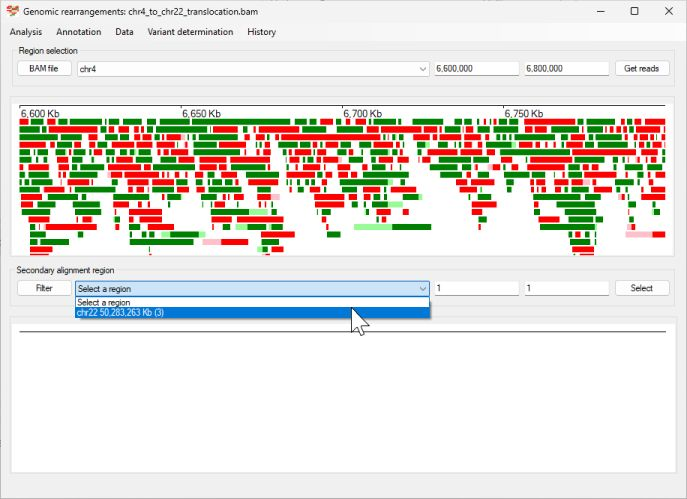
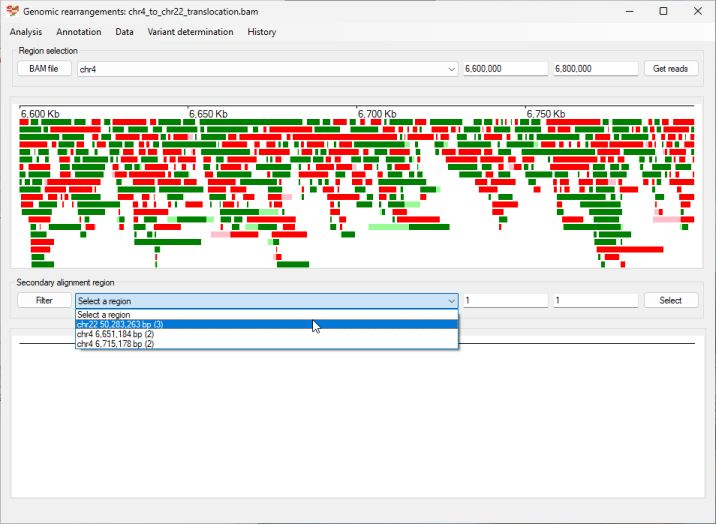
Creating the user guide

diff --git a/AgileStructure/Form1.cs b/AgileStructure/Form1.cs
@@ -1147,7 +1147,7 @@ namespace AgileStructure
                 foreach (string k in secondaryAlignments.Keys)
                 {
                     if (secondaryAlignments[k] > 1)
-                    { bins.Add(k + " Kb (" + secondaryAlignments[k].ToString() + ")"); }
+                    { bins.Add(k + " bp (" + secondaryAlignments[k].ToString() + ")"); }
                 }
                 bins.Sort();
                 cboSecondaries.Items.Clear();
@@ -2780,12 +2780,8 @@ namespace AgileStructure
 
         private void btnFilter_Click(object sender, EventArgs e)
         {
-            if (cboSecondaries.Items.Count < 2)
-            {
-                repopulateSecondaryList();
-                btnFilter.PerformClick();
-                return;
-            }
+
+            repopulateSecondaryList();             
 
             FilterHits fh = new FilterHits(referenceSequenceNames, 2);
             if (fh.ShowDialog() == DialogResult.OK)
@@ -2802,7 +2798,7 @@ namespace AgileStructure
                         if ((k.Contains(chromosome) == true || chromosome.StartsWith("Select")) && secondaryAlignments[k] >= count)
                         {
                             if (secondaryAlignments[k] > 1)
-                            { bins.Add(k + " Kb (" + secondaryAlignments[k].ToString() + ")"); }
+                            { bins.Add(k + " bp (" + secondaryAlignments[k].ToString() + ")"); }
                         }
                     }
 
@@ -2818,11 +2814,7 @@ namespace AgileStructure
                     cboSecondaries.Items.Add("Select a region");
                     cboSecondaries.SelectedIndex = 0;
                 }
-            }
-            else
-            {
-                repopulateSecondaryList();
-            }
+            }            
         }
 
         private void repopulateSecondaryList()
@@ -2834,7 +2826,7 @@ namespace AgileStructure
                 foreach (string k in secondaryAlignments.Keys)
                 {
                     if (secondaryAlignments[k] > 1)
-                    { bins.Add(k + " Kb (" + secondaryAlignments[k].ToString() + ")"); }
+                    { bins.Add(k + " bp (" + secondaryAlignments[k].ToString() + ")"); }
                 }
 
                 bins.Sort();
@@ -2944,16 +2936,14 @@ namespace AgileStructure
                 {
                     startPoint.Sort();
                     endPoint.Sort();
-                    if (startPoint.Count % 2 == 0)
-                    {
-                        int middle = startPoint.Count / 2;
-                        int mediumStart = (startPoint[middle - 1] + startPoint[middle]) / 2;
-                        int mediumEnd = (endPoint[middle - 1] + endPoint[middle]) / 2;
 
-                        sb.Append("\nMedian brake points\t" + cboRef.Text + ":" + mediumStart.ToString("N0") + "-" + (mediumStart + 1).ToString("N0") + "ins" + (mediumStart - mediumEnd).ToString("N0") + "bp\n");
-                        if (MessageBox.Show(sb.ToString(), "Insertion", MessageBoxButtons.YesNo, MessageBoxIcon.Question) == DialogResult.Yes)
-                        { SaveToFile(sb.ToString()); }
-                    }
+                    int middle = startPoint.Count / 2;
+                    int mediumStart = (startPoint[middle - 1] + startPoint[middle]) / 2;
+                    int mediumEnd = (endPoint[middle - 1] + endPoint[middle]) / 2;
+
+                    sb.Append("\nMedian brake points\t" + cboRef.Text + ":" + mediumStart.ToString("N0") + "-" + (mediumStart + 1).ToString("N0") + "ins" + (mediumStart - mediumEnd).ToString("N0") + "bp\n");
+                    if (MessageBox.Show(sb.ToString(), "Insertion", MessageBoxButtons.YesNo, MessageBoxIcon.Question) == DialogResult.Yes)
+                    { SaveToFile(sb.ToString()); }
                 }
             }
         }
@@ -2992,17 +2982,14 @@ namespace AgileStructure
                 {
                     startPoint.Sort();
                     endPoint.Sort();
-                    if (startPoint.Count % 2 == 0)
-                    {
-                        int middle = startPoint.Count / 2;
-                        int mediumStart = (startPoint[middle - 1] + startPoint[middle]) / 2;
-                        int mediumEnd = (endPoint[middle - 1] + endPoint[middle]) / 2;
 
-                        sb.Append("\nMedian brakepoints\t" + cboRef.Text + ":" + mediumStart.ToString("N0") + "-" + mediumEnd.ToString("N0") + "del\n");
-                        if (MessageBox.Show(sb.ToString(), "Deletion", MessageBoxButtons.YesNo, MessageBoxIcon.Question) == DialogResult.Yes)
-                        { SaveToFile(sb.ToString()); }
-                    }
+                    int middle = startPoint.Count / 2;
+                    int mediumStart = (startPoint[middle - 1] + startPoint[middle]) / 2;
+                    int mediumEnd = (endPoint[middle - 1] + endPoint[middle]) / 2;
 
+                    sb.Append("\nMedian brakepoints\t" + cboRef.Text + ":" + mediumStart.ToString("N0") + "-" + mediumEnd.ToString("N0") + "del\n\nDo you want to save the data?" );
+                    if (MessageBox.Show(sb.ToString(), "Deletion", MessageBoxButtons.YesNo, MessageBoxIcon.Question) == DialogResult.Yes)
+                    { SaveToFile(sb.ToString()); }
                 }
             }
         }

diff --git a/guide/README.md b/guide/README.md
@@ -14,7 +14,7 @@ while have a index file named:
 
 ### Preferred long read sequence aligners
 
-Long reads that span a break point will appear to consist of two regions of homology, mapping to different locations in the genome. How these chimeric alignments are reported are aligner specific. Some aligners such as minimap2 ([github](https://github.com/lh3/minimap2), [paper](https://academic.oup.com/bioinformatics/article/34/18/3094/4994778)), treat the two regions as different alignments, but will report the secondary alignment as a CIGAR string in the alignments tag section, while those like lra ([github](https://github.com/ChaissonLab/LRA), [paper](https://journals.plos.org/ploscompbiol/article?id=10.1371/journal.pcbi.1009078)), may report a single alignment with an insertion or deletion reported in the alignments CIGAR string.  
+Long reads that span a break point will appear to consist of two regions of homology, mapping to different locations in the genome. How these chimeric alignments are reported are aligner specific. Some aligners such as minimap2 ([github](https://github.com/lh3/minimap2), [paper](https://academic.oup.com/bioinformatics/article/34/18/3094/4994778)), treat the two regions as different alignments, but will report the secondary alignment as a condensed CIGAR string in the alignments tag section, while those like lra ([github](https://github.com/ChaissonLab/LRA), [paper](https://journals.plos.org/ploscompbiol/article?id=10.1371/journal.pcbi.1009078)), report the read as two separate alignments, but not directly reference the other alignment position and CIGAR string. However, for shorter indels both aligns will report them in the CIGAr string (see section @@@)    
 AgileStructure is able to analyse both annotations, but the first method is the most flexible and will allow more complex break points to be processed than those that hard clip the sequence and don't include the location of secondary alignment. Consequently, it is recommended to align data using an aligner like minimap2. 
 
 ### Optional data
@@ -50,28 +50,128 @@ Select the likely chromosome (reference sequence) from the dropdown list boz and
 Figure 3
 
 The position of reads mapping to the region are shown as green (aligned to the forward strand) and red (aligned to the reverse strand) rectangles scaled to the length of the read. Soft clipped sequences are identified as pale green or red extensions to the darker green/red rectangles. The size of the pale rectangles is proportionate to their length and their location only indicates whether they are on the 5' or 3' of the aligned sequence.  
-AgileStructure does not have an upper limit on the size of the region or number of reads it will process and will attempt to read the requested data until the computer runs out of memory. WHile there is no upper limit, you should try to limit the amount of data reads as reading the underlying bam file can be a slow process due to its size.
+It is important to note that in the default view reads are drawn as a solid box spanning the length of the alignment, if a read as a large deletion this will not be shown, however they can be visualised by selecting the ```Analsis``` > ```Look for indels within a read``` option (see section @@@@@@@@@).  
+AgileStructure does not have an upper limit on the size of the region or number of reads it will process and will attempt to read the requested data until the computer runs out of memory. While there is no upper limit, you should try to limit the amount of data reads as reading the underlying bam file can be a slow process due to its size.
 
-### Looking for putative break points in the selected region.
+### Hiding reads without a soft clipped segment
 
-It may be possible to simply identify the the break point  at this point, especially for large homozygous deletions, but in many situation particularly for heterozygous break points they may not standout. Consequently, AgileStructure scans the reads, looking for 250 bp regions in which multiple read alignments prematurely terminate and the remaining soft clipped sequence all maps to the same location. These regions are then recorded and entered in to the lower drop down list box (Figure 4).
+When adding reads to the image, they are stacked so as little space as possible is used, however for alignments with a high read depth, the stacks may be to too tall to fit in the image. Since, only reads that have a soft clipped region are important in break point detection it is possible to hide those with out an unaligned area by selecting the ```Analysis``` > ```Only show reads with secondary alignments ``` option (Figure 4).
 
 ![Figure 4](images/figure4.jpg)
 
 Figure 4
 
-For extended regions and/or alignments with a high read depth, this list may contain a large number of entries. To filter them press the ```Filter``` button to the left of the lower drop down list box. This will open the ```Filter possible break points``` form (Figure 5 a nd b). The upper drop down list box allow the break point to be filtered by the chromosome that the soft clip regions are mapped too (Figure 5a), while the lower number select box will filter the results by the number of reads linked to each putative break point. 
+The filtered image will contain fewer reads, making those at the break point more apparent.
 
-![Figure 5a](images/figure5a.jpg)
+![Figure 5](images/figure5.jpg)
 
-Figure 5a
+Figure 5
 
-![Figure 5b](images/figure5b.jpg)
+### Looking for putative break points in the selected region.
 
-Figure 5b
-
-Pressing the ```Filter``` button will repopulate the drop down list box (Figure 6).
+It may be possible to simply identify the the break point  at this point, especially for large homozygous deletions, but in many situation particularly for heterozygous break points they may not standout. Consequently, AgileStructure scans the reads, looking for 250 bp regions in which multiple read alignments prematurely terminate and the remaining soft clipped sequence all maps to the same location. These regions are then recorded and entered in to the lower drop down list box (Figure 6).
 
 ![Figure 6](images/figure6.jpg)
 
 Figure 6
+
+For extended regions and/or alignments with a high read depth, this list may contain a large number of entries. To filter them press the ```Filter``` button to the left of the lower drop down list box. This will open the ```Filter possible break points``` form (Figure 7a and 7b). The upper drop down list box allows the break points to be filtered by the chromosome that the soft clip regions are mapped too (Figure 7a), while the lower number select box will filter the results by the number of reads linked to each putative break point. 
+
+![Figure 7a](images/figure7a.jpg)
+
+Figure 7a
+
+![Figure 7b](images/figure7b.jpg)
+
+Figure 7b
+
+Pressing the ```Accept``` button will remove all break points that do not match the criteria (Figure 8), while pressing the ```Cancel``` will remove all filtering.
+
+![Figure 8](images/figure8.jpg)
+
+Figure 8
+
+Selecting a break point from this list will cause the reads with soft clipped sequences mapped to the break points flanking regions to be displayed in the lower panel (Figure 9). As before, reads are drawn in green or red for those mapping to the forward or reverse strands, with aligned sequences darker than the unaligned soft clipped sequences. It is important to note that only reads that are present in the upper image shown in the lower image and that sequences that were aligned to the reference sequence in the upper image will be unaligned, soft clipped sequences in the lower image. 
+
+![Figure 9](images/figure9.jpg)
+
+Figure 9
+
+### Viewing read alignment information
+
+Selecting the ```Data``` > ```View read data``` will cause a resizable window to appear that consist solely of a text area. If the mouse cursor is held over a read, its underlying data will be written to the text area. For a sequence to be selected, the cursor has to hover over the read for a little while. This makes it possible to select a read and then quickly move the cursor to the new window and copy the data to paste in a document etc.
+
+
+![Figure 10a](images/figure10a.jpg)
+
+Figure 10a
+
+![Figure 10b](images/figure10b.jpg)
+
+Figure 10b
+
+Since the read, quality score string and CIGAR string can be several thousand characters lond, the text area doesn't word wrap text and so if you want to read the end of a CIGAR string you must use the horizontal scroll bar.   
+As well as the sequence and quality string, this information contains the primary and secondary alignments' location etc as well all the tag added by the aligner.
+
+### Selecting reads linked to a break point
+
+When the upper image contains a large number of reads it may not be possible identify the reads associated with the selected break point, however clicking on a read in either image will cause it to be selected and drawn with a blue boarder. By clicking on all the reads linked to a break point in the lower image will help to identify the break point in the upper image (Figure 11) 
+
+![Figure 11](images/figure11.jpg)
+
+Figure 11
+
+If you click on a selected read it will be deselected, while selecting the ```Data``` > ```Clear selected reads``` option will deselect all selected reads (Figure 12). Finally, iIf read data is imported from the bam file (the ```Get reads``` is pressed) the selection will be cleared.
+
+![Figure 12](images/figure12.jpg)
+
+Figure 12
+
+### Saving alignment information for selected reads
+
+Rather than manually saving the data for a series of read alignments, its possible to save all the data to a text file using the ```Data``` > ```Save selected reads``` (Figure 13).
+
+![Figure 13](images/figure13.jpg)
+
+Figure 13
+
+### Annotating break points using soft clipped data
+
+Once the reads spanning a break point have been selected, is is possible to get AgileStructure to attempt to annotate the mutation. To see what type of mutation the break point represents select ```Variant determination``` > ```Use soft clip data``` > ```Variant type``` (Figure 14a). AgileStructure will scan the reads primary and secondary alignment data and the orientation of the soft clipped data with respect to the aligned sequences to determine what type of mutation it is. This is reported in a message box with the possible answers of "Deletion", "Insertion", "Inversion", "Duplication" or "Translocation" as well as messages indicating an error processing the data or user data selection issues (Figure 14b). 
+
+![Figure 14a](images/figure14a.jpg)
+
+Figure 14a
+
+![Figure 14ba](images/figure14b.jpg)
+
+Figure 14b
+
+Once the variant type is determined it is then possible to get AgileStructure to annotate it by selecting the appropriate option (Figure 15a and 15b)
+
+#### Translocation
+
+![Figure 15a](images/figure15a.jpg)
+
+Figure 15a
+
+![Figure 15ba](images/figure15b.jpg)
+
+Figure 15b
+
+The message box reporting the mutation will also allow you to save the the mutation's annotation as well as the underlying sequence data to a text file by pressing the ```Yes``` button (an example is [here](images/breakPointData.txt)).
+
+The break point is annotated with reference to the reads selected in this case those whose primary alignment is on chromosome 4. However, the alignment will also contaion reads whose primary alignment is on the other side of the break point and whose soft clipped sequences mapped to the currently selected reference. To view these reads select the ```Variant determination``` > ```Switch region``` option , select the putative break point and reads as before (Figure 16a) and press the ```Variant determination``` > ```Use soft clip data``` > ```Translocation```. If the annotation is correct, both annotations should match with a small difference in the base pair position (Figure 16b).
+
+![Figure 16a](images/figure16a.jpg)
+
+Figure 16a
+
+![Figure 15b](images/figure16b.jpg)
+
+Figure 16b
+
+#### Deletion 
+#### Insertion
+#### Inversion
+#### Duplication
